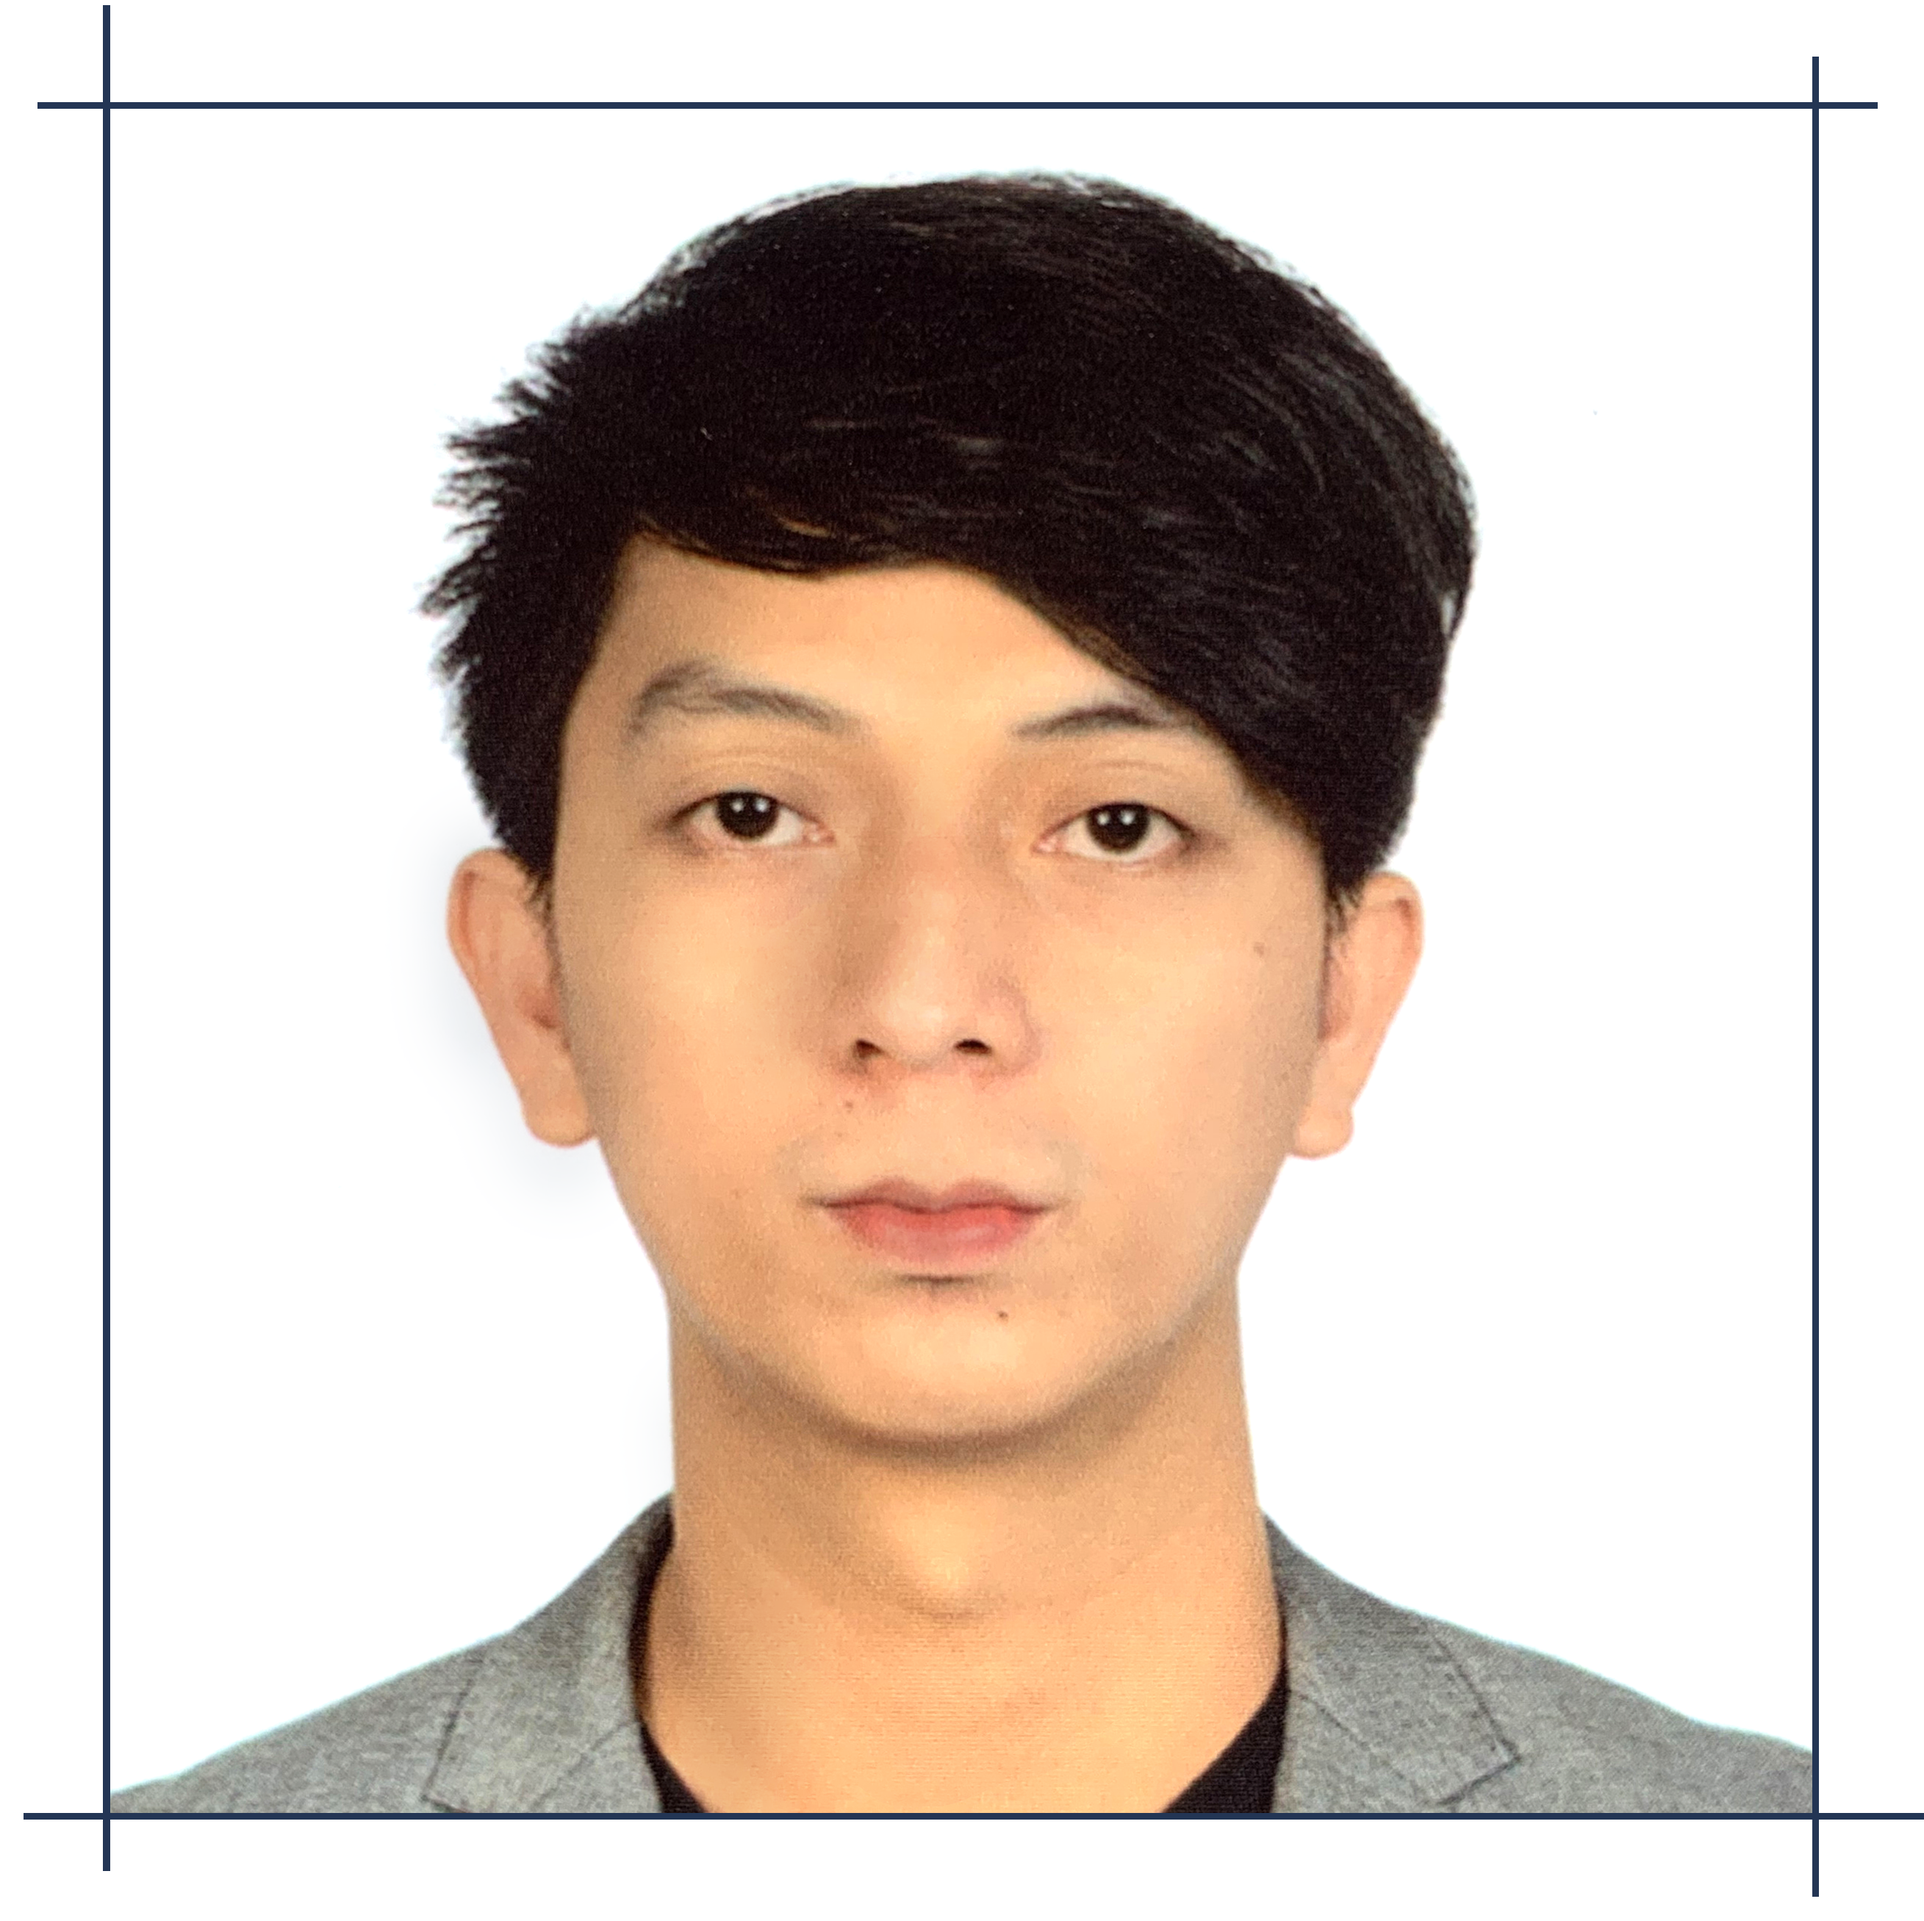
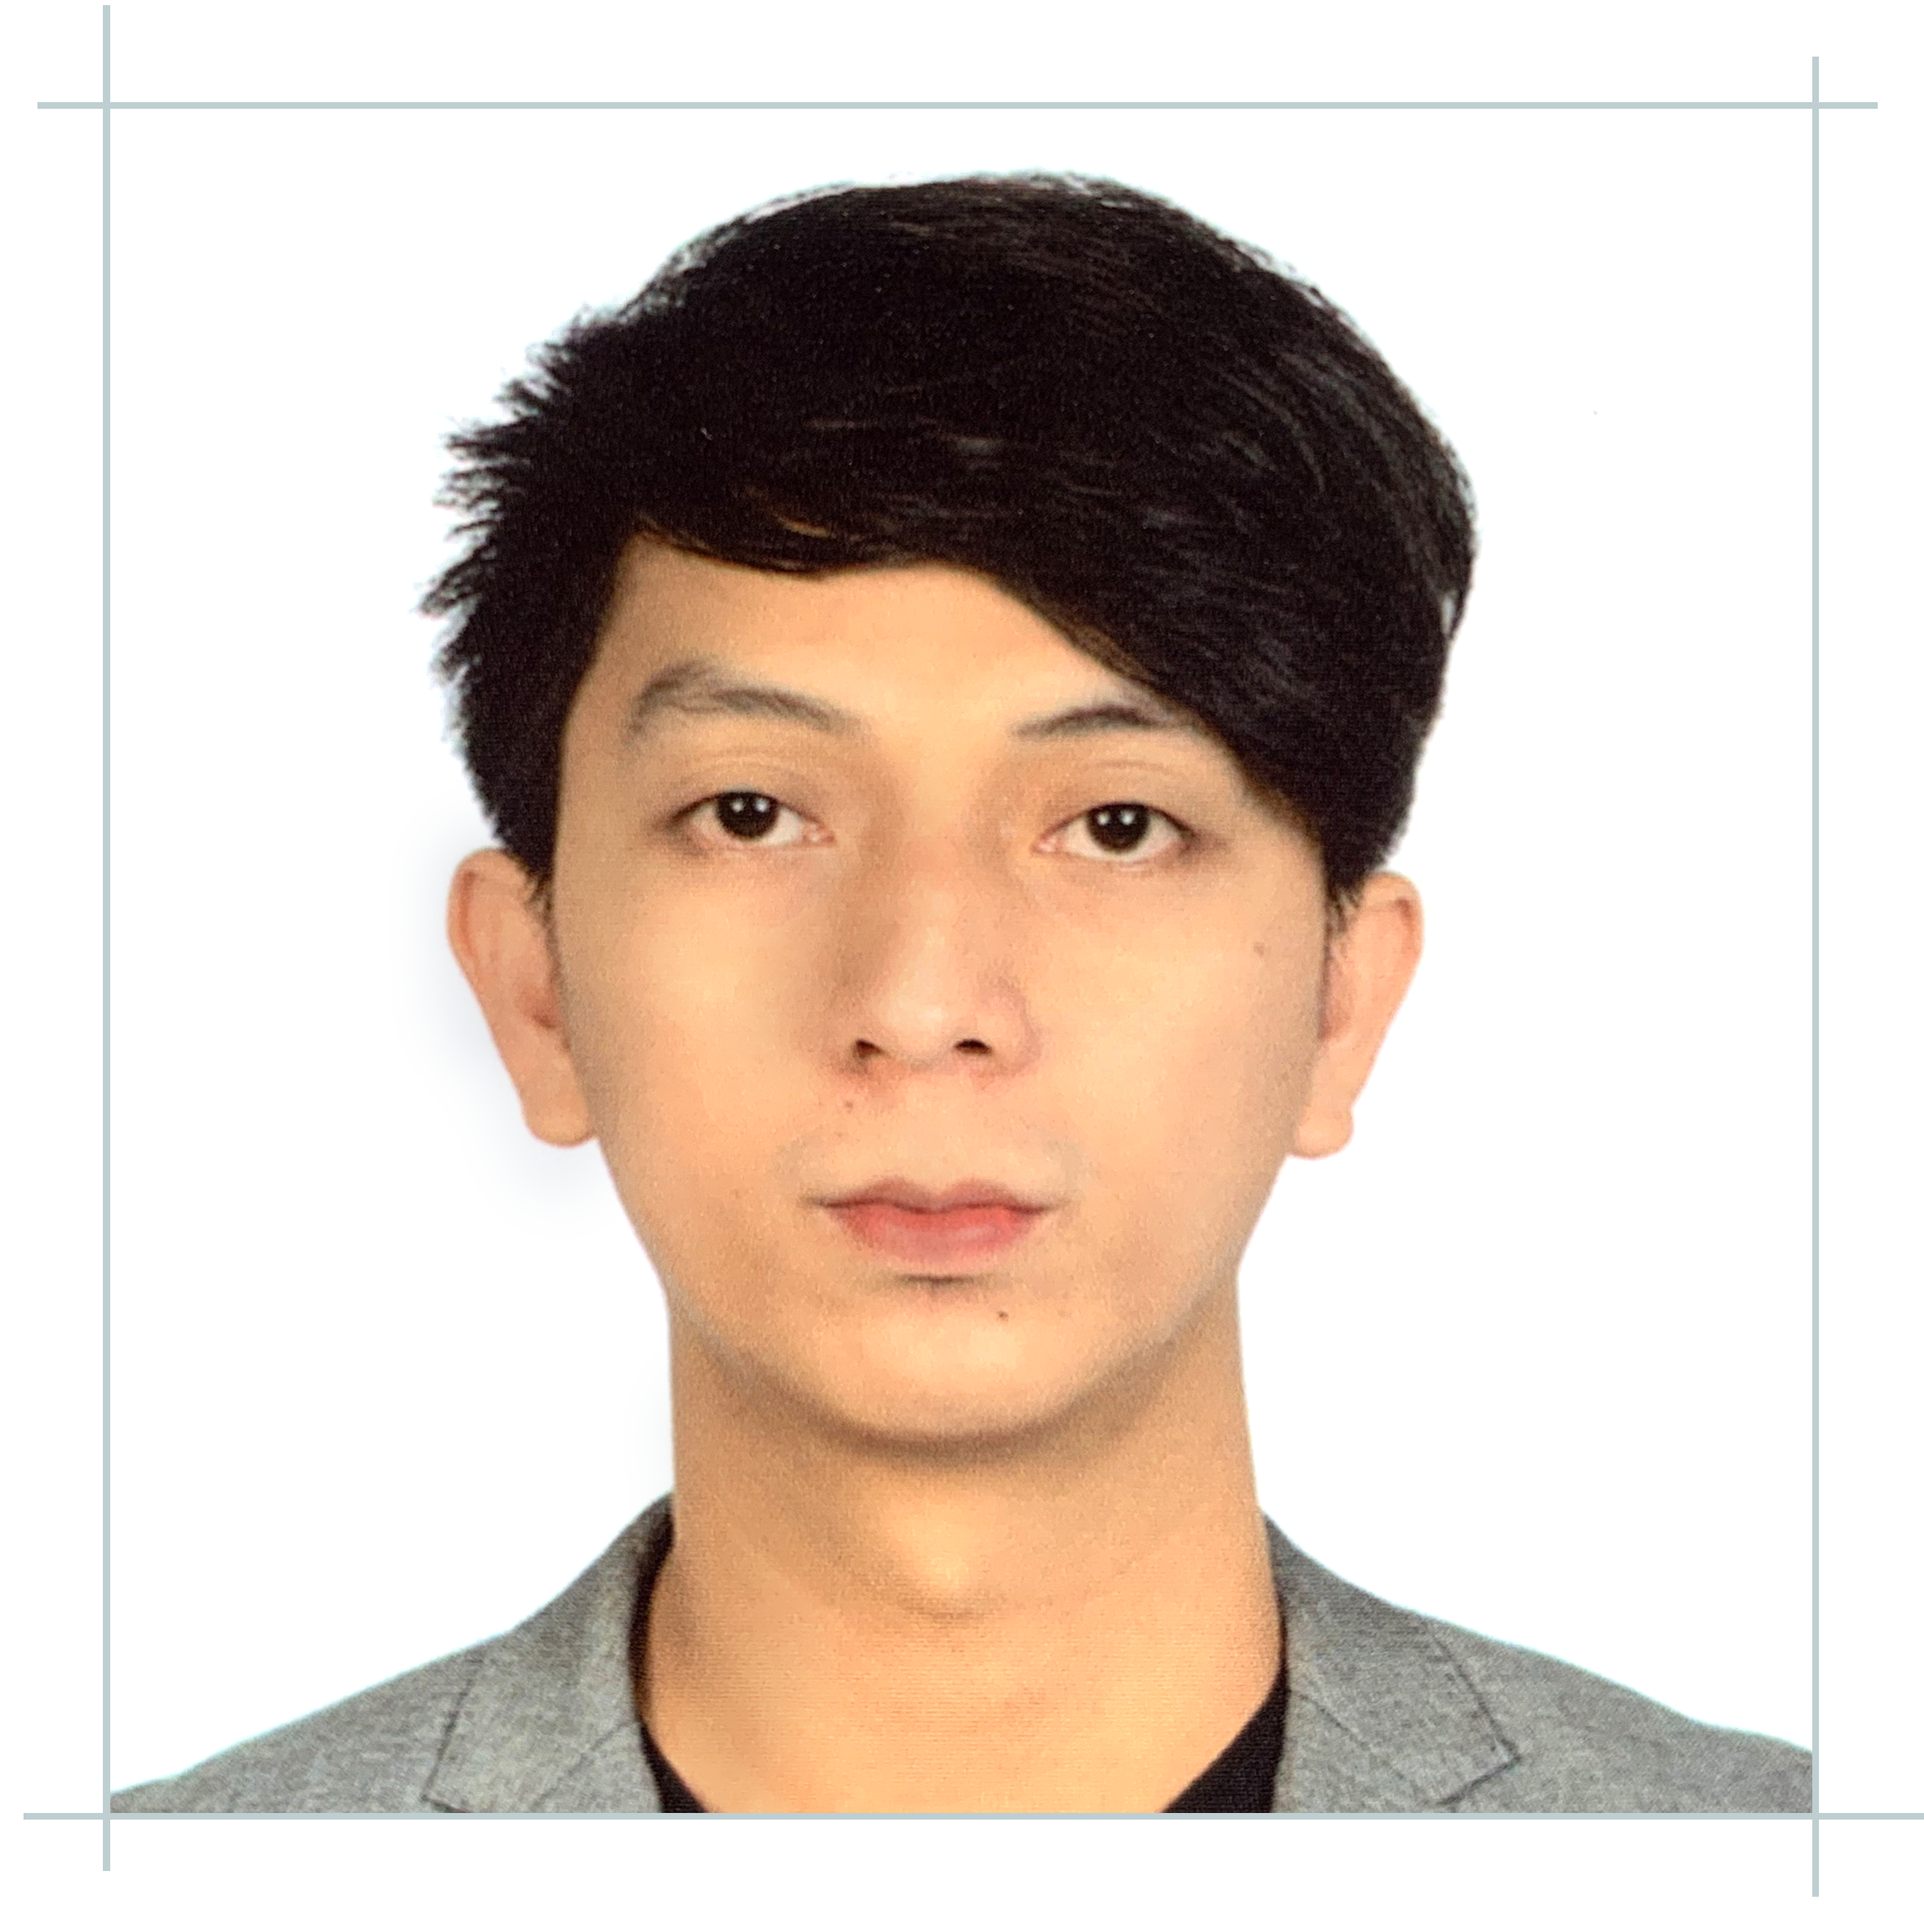
color

Changed region(s): [[0.0309, 0.0, 1.0, 0.9606]]

diff --git a/src/components/experience/experience.scss b/src/components/experience/experience.scss
@@ -34,7 +34,7 @@
   }
 
   .job__list--btn {
-    border: transparent;
+    border: none;
     color: $color_quaternary;
     background-color: transparent;
     width: 10rem;
@@ -45,13 +45,19 @@
     padding-left: 1.3rem;
 
     font-family: $font_secondary;
-    // transition: all 0.2s ease-in-out;
+    transition: all 0.2s ease-in-out;
+
+    // disabled text selection
+    -webkit-user-select: none;
+    /* Safari */
+    -ms-user-select: none;
+    /* IE 10 and IE 11 */
+    user-select: none;
+    /* Standard syntax */
   }
 
   .list__focus {
     color: $color_secondary;
-    // border-left: 2px solid $color_secondary;
-
     transition: all 0.2s ease-in-out;
     transform-origin: top;
     background-color: $color_button;
@@ -61,6 +67,7 @@
   .job__list--btn:focus {
     color: $color_secondary;
     background-color: $color_button;
+    // border: 1px solid $color_button;
     transition: all 0.2s ease-in-out;
   }
 
@@ -221,9 +228,8 @@
     }
 
     .job__list--btn {
-      // margin-right: 1rem;
-      border: 1px solid #24344e;
 
+      border: 1px solid $color_btn-border;
       border-radius: 0.3rem;
       text-align: center;
       padding-left: 0;
@@ -236,6 +242,24 @@
       font-family: $font_secondary;
     }
 
+    .job__list--btn:hover {
+      border: 1px solid $color_button;
+    }
+
+    .job__list--btn:focus {
+      border: 1px solid $color_button;
+    }
+
+    .job__list--btn:active {
+      color: $color_tertiary;
+      transition: all 0.1s ease-in-out;
+      background-color: $color_button;
+      opacity: 0.5;
+    }
+
+    .list__focus {
+      border: 1px solid $color_button;
+    }
 
     .experience__job-description {
 

diff --git a/src/sass/_config.scss b/src/sass/_config.scss
@@ -1,7 +1,52 @@
-$color_primary: #0A192F;
-$color_secondary: #64ffda;
-$color_tertiary: #ccd6f6;
-$color_quaternary: #8892b0;
-$color_quinary: hsla(216, 65%, 11%, 0.8);
-$color_button: #112240;
-$color_line: #233554;
+// $color_primary: #0A192F;
+// $color_secondary: #64ffda;
+// $color_tertiary: #ccd6f6;
+// $color_quaternary: #8892b0;
+// $color_quinary: hsla(216, 65%, 11%, 0.8);
+// $color_button: #112240;
+// $color_line: #233554;
+
+// $color_primary: #2C3333;
+// $color_secondary: #64ffda;
+// $color_tertiary: #CBE4DE;
+// $color_quaternary: #6e857f;
+// $color_quinary: #363f3fa6;
+// $color_button: #3c4444;
+// $color_line: #4e5c5c;
+
+// ------------
+
+// $color_primary: #222831;
+// $color_secondary: #FFD369;
+// $color_tertiary: #EEEEEE;
+// $color_quaternary: #a1a1a1;
+// $color_quinary: #222831b4;
+// $color_button: #42474e;
+// $color_line: #42474e;
+
+// $color_btn-border: #42474e;
+
+// ------------
+
+$color_primary: #e2eeec;
+$color_secondary: #358c7b;
+$color_tertiary: #1a3236;
+$color_quaternary: #1a3236;
+$color_quinary: #e2eeec6b;
+$color_button: #c2dbd7;
+$color_line: #beced1;
+
+$color_btn-border: #beced1;
+
+// ------------
+
+// $color_primary: #e5e5e5;
+// // $color_secondary: #2b9610;
+// $color_secondary: #17996e;
+// $color_tertiary: #29282b;
+// $color_quaternary: #29282b;
+// $color_quinary: #e2eeec;
+// $color_button: #cfe0de;
+// $color_line: #42474e;
+
+// $color_btn-border: #42474e;

diff --git a/src/sass/_mixin.scss b/src/sass/_mixin.scss
@@ -28,13 +28,37 @@
   font-weight: 500;
 }
 
+// @mixin btn {
+//   display: flex;
+//   justify-content: center;
+//   align-items: center;
+
+//   background-color: transparent;
+//   color: $color_secondary;
+
+//   font-family: $font_secondary;
+//   font-size: 0.875rem;
+
+//   border: 1px solid $color_secondary;
+
+//   padding-block: 1.2rem;
+//   border-radius: 0.3rem;
+
+//   cursor: pointer;
+
+// }
+
 @mixin btn {
   display: flex;
   justify-content: center;
   align-items: center;
 
+  // background-color: #358c7b;
   background-color: transparent;
+  // color: #e5e5e5;
+  // color: $color_secondary;
   color: $color_secondary;
+
 
   font-family: $font_secondary;
   font-size: 0.875rem;
@@ -43,11 +67,13 @@
 
   padding-block: 1.2rem;
   border-radius: 0.3rem;
+  // border-radius: 100rem;
 
   cursor: pointer;
 
 }
 
 @mixin btn_hover {
-  background-color: #64ffdb15;
+  background-color: #8cafa9;
+  color: $color_primary;
 }

diff --git a/src/components/navbar/navbar.scss b/src/components/navbar/navbar.scss
@@ -65,7 +65,9 @@
 
   background-color: $color_quinary;
   backdrop-filter: blur(10px);
-  box-shadow: 0 3px 1rem rgba(0, 0, 0, 0.274);
+  // box-shadow: 0 3px 1rem rgba(0, 0, 0, 0.1);
+  box-shadow: 0 3px 1rem #1a323634;
+
 }
 
 @media (max-width:600px) {
@@ -77,7 +79,11 @@
     &__container {
       margin-inline: 2rem;
 
+
       .navbar__menu {
+        border-top: 1px solid $color_primary;
+        border-left: 1px solid $color_primary;
+        border-top-left-radius: 1rem;
         position: fixed;
         top: 0;
         right: -100vw;
@@ -89,7 +95,8 @@
         background-color: $color_button;
         transition: all 200ms ease-in-out;
 
-        box-shadow: 0 3px 1rem rgba(0, 0, 0, 0.274);
+        // box-shadow: 0 3px 1rem rgba(0, 0, 0, 0.274);
+        box-shadow: 0 3px 1rem #1a323659;
 
 
         li {

diff --git a/src/components/work/project-1/Project2.jsx b/src/components/work/project-1/Project2.jsx
@@ -1,7 +1,7 @@
 import React, { useState } from 'react';
 
-import zcShoppy1 from '../../../assets/images/zc-shoppy1.jpg';
-import zcShoppy2 from '../../../assets/images/zc-shoppy2.jpg';
+import zcShoppy1 from '../../../assets/images/zc-shoppy1.png';
+import zcShoppy2 from '../../../assets/images/zc-shoppy2.png';
 import { RxTriangleRight } from 'react-icons/rx';
 import { HiArrowTopRightOnSquare } from 'react-icons/hi2';
 import { FiGithub } from 'react-icons/fi';

diff --git a/src/components/work/project-1/Project1.jsx b/src/components/work/project-1/Project1.jsx
@@ -1,7 +1,7 @@
 import React, { useState } from 'react';
 
-import caster1 from '../../../assets/images/caster1.jpg';
-import caster2 from '../../../assets/images/caster2.jpg';
+import caster1 from '../../../assets/images/caster1.png';
+import caster2 from '../../../assets/images/caster2.png';
 import { RxTriangleRight } from 'react-icons/rx';
 import { HiArrowTopRightOnSquare } from 'react-icons/hi2';
 import { FiGithub } from 'react-icons/fi';

diff --git a/src/components/hero/hero.scss b/src/components/hero/hero.scss
@@ -54,6 +54,12 @@
 
   }
 
+  // &__btn {
+  //   @include btn;
+  //   width: 16rem;
+  //   transition: all 200ms ease-in-out;
+  // }
+
   &__btn {
     @include btn;
     width: 16rem;

diff --git a/src/components/contact/contact.scss b/src/components/contact/contact.scss
@@ -62,7 +62,8 @@
 // @media (max-width: 375px) {
 @media (max-width: 500px) {
   .contact {
-
+    padding-top: 7rem;
+    padding-bottom: 0rem;
 
     &__container {
 

diff --git a/src/components/side-nav/side-nav.scss b/src/components/side-nav/side-nav.scss
@@ -128,7 +128,7 @@
     }
 
     &__gmail--contact {
-      font-weight: 600;
+      font-weight: 400;
       transform-origin: unset;
       letter-spacing: 0.1rem;
 
